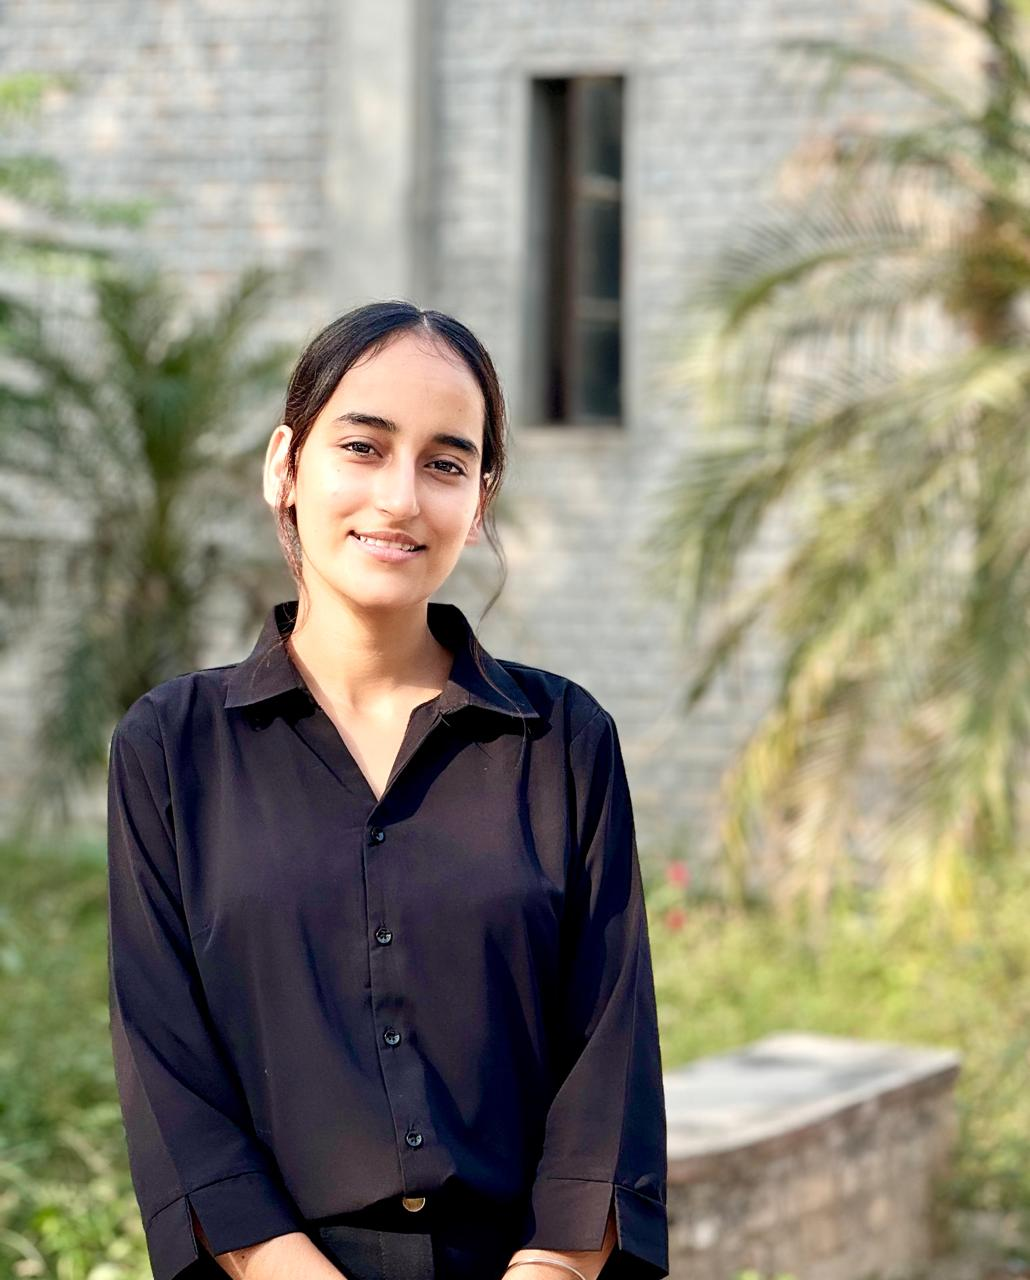
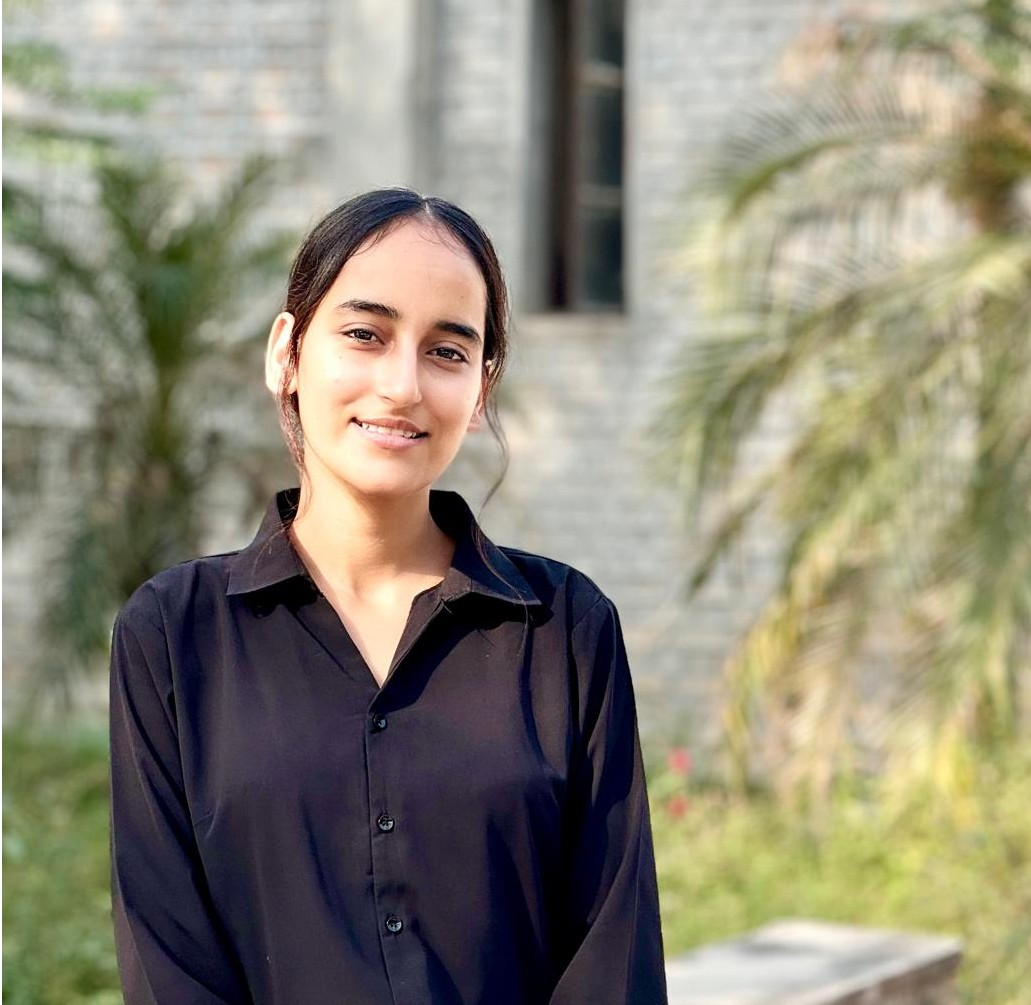
Changed about section

diff --git a/index.html b/index.html
@@ -78,7 +78,7 @@
         </div>
         <div class="about-details-container">
           <div class="about-containers">
-            <div class="details-container">
+            <!-- <div class="details-container">
               <img
                 src="./assets/experience.png"
                 alt="Experience icon"
@@ -88,7 +88,7 @@
               <p>
                 6 Months Internship <br />Frontend Development using Flutter
               </p>
-            </div>
+            </div> -->
             <div class="details-container">
               <img
                 src="./assets/education.png"
@@ -96,19 +96,12 @@
                 class="icon"
               />
               <h3>Education</h3>
-              <p>Bachelors in Computer Science Engineering<br />Grade- 7.5</p>
+              <p><b><i>Bachelors in Computer Science and Engineering <br> ~ Maharaja Ranjit Singh Punjab Technical University</i></b></p>
             </div>
           </div>
           <div class="text-container">
             <p style="margin-bottom: 20px">
-              I am a passionate Computer Science Engineering graduate with
-              expertise in Full Stack Web Development. With hands-on experience
-              in HTML, CSS, JavaScript, Node.js, MySQL and MERN stack, I've
-              designed and developed user-friendly, dynamic websites that
-              combine functionality with aesthetics. During my internship at IIT
-              Ropar, I enhanced my skills further by working on real-world
-              projects, managing deadlines efficiently, and even adapting
-              quickly to a new technology Flutter.
+              Computer Science Engineering graduate with practical experience in full stack web development through multiple industrial trainings and an internship at IIT Ropar. Skilled in HTML, CSS, JavaScript, React, Node.js, MySQL, MongoDB, and Flutter. Currently seeking a fresher-level role to apply my technical expertise and contribute to impactful, real-world projects.
             </p>
           </div>
           <div class="btn-container">

diff --git a/mediaqueries.css b/mediaqueries.css
@@ -141,4 +141,17 @@
     height: 60px;
     /* margin-bottom: 0.5rem; */
   }
+  .section__pic-container {
+    display: flex;
+    justify-content: center;
+    align-items: center;
+    width: 100%;
+    margin-bottom: 20px;
+  }
+
+  .about-pic {
+    max-width: 80%;
+    height: auto;
+    display: block;
+  }
 }

diff --git a/style.css b/style.css
@@ -289,7 +289,7 @@ body.menu-open {
 }
 
 .about-pic {
-  border-radius: 5rem;
+  border-radius: 10rem;
 }
 
 .arrow {
